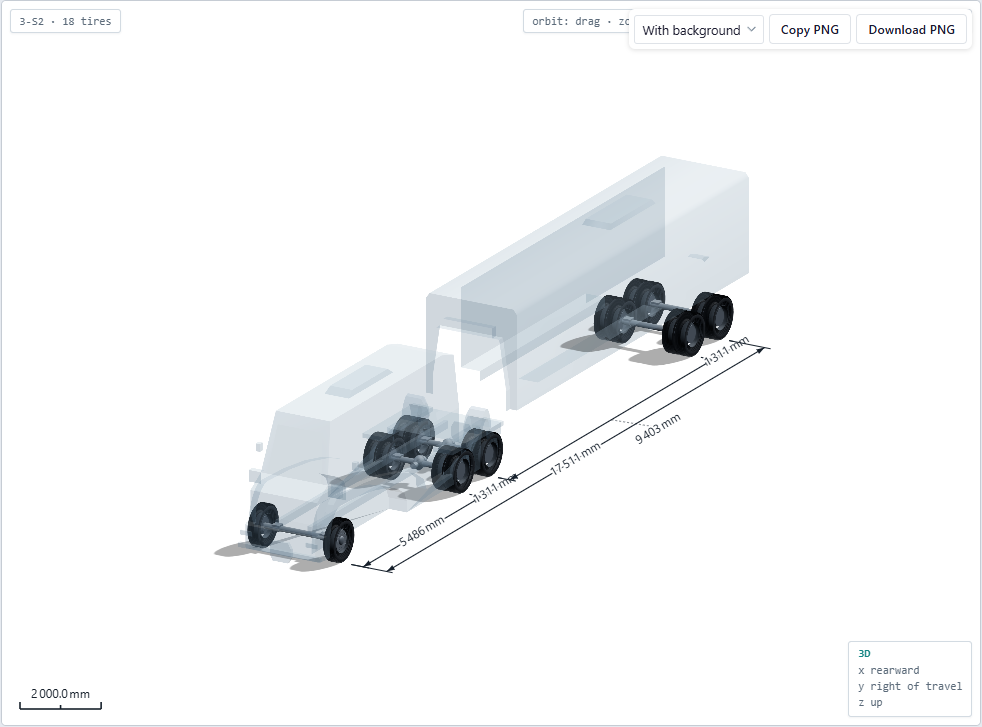
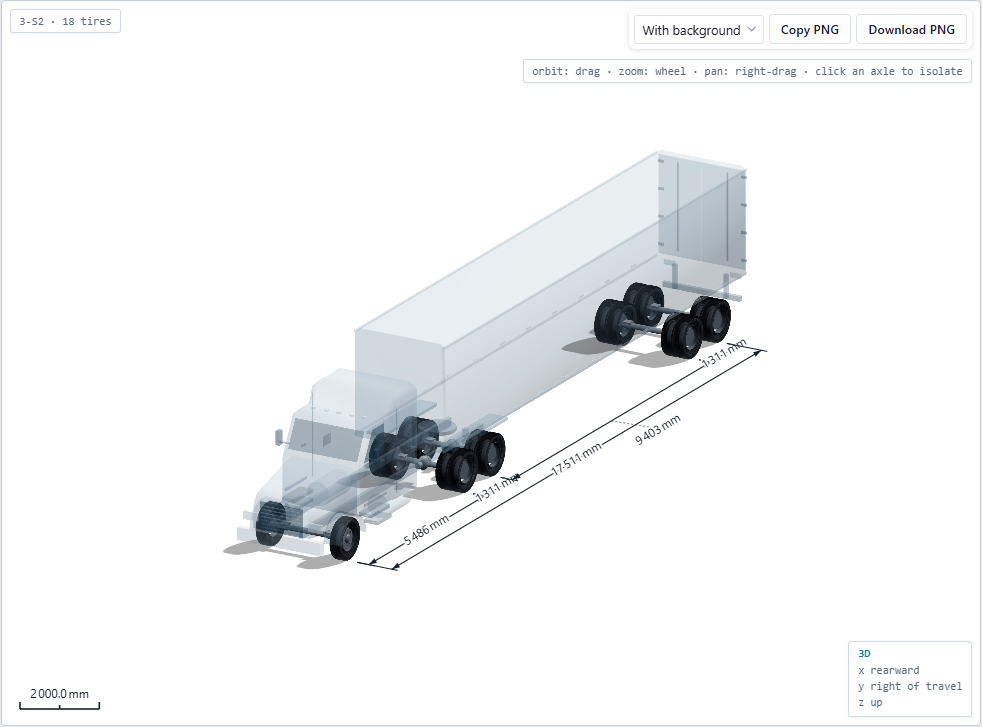
Rebuild articulated trucks with conventional tractor proportions and detailed trailers

diff --git a/src/components/react/gear3d/engine/geometry/vehicleBody.js b/src/components/react/gear3d/engine/geometry/vehicleBody.js
@@ -1,6 +1,7 @@
 import * as THREE from 'three';
 import { GLTFLoader } from 'three/addons/loaders/GLTFLoader.js';
 import { profileFor } from './chassis.js';
+import { buildConventionalTruck } from './conventionalTruck.js';
 
 const templates = new Map();
 const requests = new Map();
@@ -20,14 +21,16 @@ export function vehicleBodySpec(unit) {
     if (unit.domain !== 'truck') return null;
     const profile = profileFor(unit.bodyType).key;
     const articulated = /tractor|trailer/.test(unit.bodyType || '');
+    if(articulated) return {id:'conventional',label:'Conventional long-hood tractor and van trailers',articulated:true};
     const id = { car: 'sedan', pickup: 'truck', bus: 'bus', motorcycle: 'motorcycle' }[profile]
-        || (articulated || /dump/.test(unit.bodyType || '') ? 'delivery-flat' : 'delivery');
-    return { id, label: articulated ? 'Cab and articulated trailer bodies' : `${profile} reference body`, articulated, secondary: articulated ? 'trailer' : null };
+        || (/dump/.test(unit.bodyType || '') ? 'delivery-flat' : 'delivery');
+    return { id, label: `${profile} reference body` };
 }
 
 export function vehicleBodyStatus(unit) {
     const spec = vehicleBodySpec(unit);
     if (!spec) return 'unavailable';
+    if (spec.articulated) return 'ready';
     const ids=[spec.id,spec.secondary].filter(Boolean);
     return ids.every(id=>templates.has(id)) ? 'ready' : ids.some(id=>failures.has(id)) ? 'failed' : 'loading';
 }
@@ -35,7 +38,7 @@ export function vehicleBodyStatus(unit) {
 /** Load only selected visible bodies; repeated requests share promises. */
 export function ensureVehicleBody(unit, base) {
     const spec = vehicleBodySpec(unit);
-    if (!spec) return Promise.resolve();
+    if (!spec || spec.articulated) return Promise.resolve();
     return Promise.all([spec.id,spec.secondary].filter(Boolean).map(id=>{
         if(templates.has(id)||failures.has(id))return Promise.resolve();
         if(requests.has(id))return requests.get(id);
@@ -68,13 +71,13 @@ export function disposeVehicleBodies() {
 export function buildVehicleBody(layout) {
     const spec = vehicleBodySpec(layout.unit);
     const template = spec && templates.get(spec.id);
-    if (!template || vehicleBodyStatus(layout.unit) !== 'ready' || !layout.wheels.length) return null;
-    const meta = template.userData;
+    if (!spec || (!template && !spec.articulated) || vehicleBodyStatus(layout.unit) !== 'ready' || !layout.wheels.length) return null;
+    const meta = template?.userData;
     const group = new THREE.Group(); group.name = 'vehicle-body';
     group.userData = { illustrative: true, label: spec.label };
     const palette = new Map();
     function surfaceMaterial(surface = 'body') {
-        const key = spec.id === 'bus' ? surface : 'body';
+        const key = spec.id === 'bus' || spec.articulated ? surface : 'body';
         if (!palette.has(key)) {
             const style = {
                 windows: {color:0x294859,opacity:.43,roughness:.3},
@@ -89,10 +92,11 @@ export function buildVehicleBody(layout) {
         }
         return palette.get(key);
     }
+    if(spec.articulated) return buildConventionalTruck(layout,surfaceMaterial);
     const material = surfaceMaterial(spec.id === 'bus' ? 'bottom' : 'body');
     const xs = layout.axles.map(a=>a.x);
     let front = Math.min(...xs), rear = Math.max(...xs);
-    let sx, sy, sz, lift, tractor, busFit, fuselageBelly;
+    let sx, sy, sz, lift, busFit, fuselageBelly;
     if (spec.aircraft) {
         const nose=layout.axles.find(a=>a.role==='nose');
         const mains=layout.axles.filter(a=>a.role==='main');
@@ -114,27 +118,10 @@ export function buildVehicleBody(layout) {
         const gearTop=Math.max(...mains.map(a=>a.axleHeight+a.geometry.overallDiameter*1.35));
         lift=Math.max(gearTop-belly*sy, -meta.minY*sy + 150);
     } else {
-        const drive=layout.axles.filter(a=>a.role==='drive');
-        if(spec.articulated && drive.length) rear=Math.max(...drive.map(a=>a.x));
         const width=layout.extents.maxY-layout.extents.minY;
         sx=width/meta.width; sy=sx * (spec.id.startsWith('delivery') ? 1.35 : 1);
         sz=(rear-front)/(meta.rearAxle-meta.frontAxle);
         if(spec.id==='motorcycle') sx=sy=sz;
-        if (spec.articulated && drive.length) {
-            const radius=Math.max(...drive.map(a=>a.geometry.freeRadius));
-            let cabSourceEnd=meta.frontAxle;
-            template.traverse(o=>{
-                const p=o.geometry?.attributes.position;
-                if(p)for(let i=0;i<p.count;i++)
-                    if(p.getY(i)>meta.axleY+(meta.maxY-meta.axleY)*.4)
-                        cabSourceEnd=Math.max(cabSourceEnd,p.getZ(i));
-            });
-            tractor={front, firstDrive:Math.min(...drive.map(a=>a.x)), rear,
-                cabSourceEnd, rearEnd:rear+radius+180};
-            tractor.cabEnd=Math.min(tractor.firstDrive+radius*.6,rear-radius*.45);
-            sy=(3500-layout.axles[0].axleHeight)/(meta.maxY-meta.axleY);
-            group.userData.tractor=tractor;
-        }
         if(spec.id==='bus') {
             sy=(3200-layout.axles[0].axleHeight)/(meta.maxY-meta.axleY);
             const total=Math.max(layout.unit.overallLength || 0,rear-front+2000);
@@ -168,8 +155,7 @@ export function buildVehicleBody(layout) {
         }
         for(let i=0;i<p.count;i++) {
             const z=p.getZ(i);
-            const longitudinal = tractor ? tractorLongitudinal(z,meta,tractor,sx)
-                : spec.aircraft ? z*sz+offset
+            const longitudinal = spec.aircraft ? z*sz+offset
                 : z<meta.frontAxle ? front+(z-meta.frontAxle)*(busFit?.frontScale ?? sx)
                 : z>meta.rearAxle ? rear+(z-meta.rearAxle)*(busFit?.rearScale ?? sx)
                 : front+(z-meta.frontAxle)*sz;
@@ -182,12 +168,11 @@ export function buildVehicleBody(layout) {
         }
         geo.computeBoundingBox(); geo.computeBoundingSphere();
         const mesh=new THREE.Mesh(geo,surfaceMaterial(o.userData.surface));
-        mesh.name=tractor?'vehicle-body:tractor':`vehicle-body:${o.userData.surface || 'surface'}`;
+        mesh.name=`vehicle-body:${o.userData.surface || 'surface'}`;
         mesh.userData.pickable=false;mesh.raycast=()=>{};
         group.add(mesh);
     });
     if(busFit) addBusDetails(group,busFit,surfaceMaterial);
-    if(tractor) addTractorDetails(group,layout,tractor,material);
     if(!spec.aircraft && spec.id !== 'bus' && spec.id !== 'motorcycle') {
         const bounds=new THREE.Box3().setFromObject(group);
         const half=(layout.extents.maxY-layout.extents.minY)/2;
@@ -208,46 +193,9 @@ export function buildVehicleBody(layout) {
             for(const z of [start,end])detailBox(group,'dump-end',material,0,(floor+top)/2,z,half*1.9,top-floor,90);
         }
     }
-    if(spec.articulated) {
-        // Each separated trailer axle cluster carries its own cargo body.
-        const trailer=layout.axles.filter(a=>a.role==='trailer').sort((a,b)=>a.x-b.x);
-        let clusters=[];
-        for(const a of trailer) {
-            if(!clusters.length || a.x-clusters.at(-1).at(-1).x>3000) clusters.push([]);
-            clusters.at(-1).push(a);
-        }
-        if (clusters.length > 2 && /full trailer|double/.test(layout.unit.bodyType || ''))
-            clusters = [clusters[0], clusters.slice(1).flat()];
-        let start=Math.max(rear+700,(tractor?.rearEnd || rear)+250);
-        const width=layout.extents.maxY-layout.extents.minY;
-        for(const [i,cluster] of clusters.entries()) {
-            const end=Math.max(...cluster.map(a=>a.x))+1200;
-            if(end<=start)continue;
-            const cargo=templates.get('trailer'), cm=cargo.userData;
-            cargo.traverse(o=>{
-                if(!o.isMesh)return;
-                const geo=o.geometry.clone();
-                geo.translate(0,-cm.minY,0);
-                geo.scale(width/cm.width,2600/(cm.maxY-cm.minY),(end-start)/cm.length);
-                geo.translate(0,1250,start);
-                const mesh=new THREE.Mesh(geo,material);mesh.name=`vehicle-body:trailer-${i+1}`;
-                mesh.userData.pickable=false;mesh.raycast=()=>{};group.add(mesh);
-            });
-            start=end+700;
-        }
-    }
     return group;
 }
 
-
-/** Preserve the nose, enlarge the cab up to the drive group, then fit the rear
- * deck to the actual last tractor axle. Trailer axles never set tractor size. */
-function tractorLongitudinal(z,meta,fit,widthScale) {
-    if(z<meta.frontAxle)return fit.front+(z-meta.frontAxle)*widthScale;
-    if(z<fit.cabSourceEnd)return THREE.MathUtils.mapLinear(z,meta.frontAxle,fit.cabSourceEnd,fit.front,fit.cabEnd);
-    if(z<meta.rearAxle)return THREE.MathUtils.mapLinear(z,fit.cabSourceEnd,meta.rearAxle,fit.cabEnd,fit.rear);
-    return THREE.MathUtils.mapLinear(z,meta.rearAxle,meta.length,fit.rear,fit.rearEnd);
-}
 
 function detailBox(group,name,material,x,y,z,width,height,length) {
     const geometry=new THREE.BoxGeometry(width,height,length);
@@ -255,20 +203,6 @@ function detailBox(group,name,material,x,y,z,width,height,length) {
     const mesh=new THREE.Mesh(geometry,material);mesh.name=`vehicle-body:${name}`;
     mesh.userData.pickable=false;mesh.raycast=()=>{};group.add(mesh);
     return mesh;
-}
-
-function addTractorDetails(group,layout,fit,material) {
-    const drive=layout.axles.filter(a=>a.role==='drive');
-    const radius=Math.max(...drive.map(a=>a.geometry.freeRadius));
-    const axleHeight=Math.max(...drive.map(a=>a.axleHeight));
-    const length=fit.rearEnd-fit.front+350;
-    for(const side of [-1,1]) {
-        detailBox(group,'tractor-frame',material,side*430,axleHeight+240,
-            (fit.front-350+fit.rearEnd)/2,100,190,length);
-        const fenderLength=fit.rear-fit.firstDrive+radius*2;
-        detailBox(group,'drive-fender',material,side*(layout.derived.overallWidth/2-270),
-            axleHeight+radius+90,(fit.firstDrive+fit.rear)/2,520,110,fenderLength);
-    }
 }
 
 /** Transit-bus detail follows the calibrated body envelope, in millimeters.

diff --git a/src/components/react/gear3d/engine/geometry/conventionalTruck.js b/src/components/react/gear3d/engine/geometry/conventionalTruck.js
@@ -1,0 +1,112 @@
+import * as THREE from 'three';
+
+// Representative conventional tractor, proportioned from the Cascadia 126
+// manufacturer side elevations (1315 mm nose overhang, 3220 mm day cab BBC).
+// This is an authored illustration, not a Freightliner CAD model.
+export function buildConventionalTruck(layout, material) {
+    const root=new THREE.Group();root.name='vehicle-body';
+    root.userData={illustrative:true,label:'Conventional long-hood tractor and van trailers'};
+    const steer=layout.axles.find(a=>a.role==='steer') || layout.axles[0];
+    const drive=layout.axles.filter(a=>a.role==='drive');
+    if(!drive.length)return root;
+    const front=steer.x, firstDrive=Math.min(...drive.map(a=>a.x)),rear=Math.max(...drive.map(a=>a.x));
+    const scale=THREE.MathUtils.clamp((firstDrive-front-650)/4000,.7,1);
+    const width=Math.min(2590,layout.extents.maxY-layout.extents.minY);
+    const wx=width/2500;
+    const z=v=>front+v*scale;
+    const cabEnd=Math.min(z(3205),firstDrive-700*scale);
+    root.userData.tractor={front,firstDrive,rear,rearEnd:rear+700,cabEnd,nose:z(-1315),hoodEnd:z(650),scale};
+    const mesh=(name,geo,kind='body')=>{
+        geo.computeVertexNormals();geo.computeBoundingBox();geo.computeBoundingSphere();
+        const m=new THREE.Mesh(geo,material(kind));m.name=`vehicle-body:${name}`;
+        m.userData.pickable=false;m.raycast=()=>{};root.add(m);return m;
+    };
+    const box=(name,x,y,zz,w,h,l,kind='details')=>mesh(name,new THREE.BoxGeometry(w,h,l).translate(x,y,zz),kind);
+    // Chamfered transverse sections produce a shaped hood/roof without stretching
+    // glazing. Each station defines z, half-width, floor, roof and corner radius.
+    const loft=(name,sections,kind='body')=>{
+        const vertices=[],indices=[];
+        for(const [zz,w,b,t,c] of sections)vertices.push(-w,b,zz,w,b,zz,w,t-c,zz,w-c,t,zz,-w+c,t,zz,-w,t-c,zz);
+        for(let j=0;j<sections.length-1;j++)for(let k=0;k<6;k++){
+            const a=j*6+k,b=j*6+(k+1)%6,c=b+6,d=a+6;indices.push(a,b,d,b,c,d);
+        }
+        for(let k=1;k<5;k++){indices.push(0,k+1,k);const n=(sections.length-1)*6;indices.push(n,n+k,n+k+1);}
+        const g=new THREE.BufferGeometry();g.setAttribute('position',new THREE.Float32BufferAttribute(vertices,3));g.setIndex(indices);
+        return mesh(name,g,kind);
+    };
+    const panel=(name,points,kind='windows')=>{
+        const g=new THREE.BufferGeometry();g.setAttribute('position',new THREE.Float32BufferAttribute(points.flat(),3));
+        g.setIndex([0,1,2,0,2,3]);return mesh(name,g,kind);
+    };
+    loft('hood',[
+        [z(-1250),790*wx,850,1580,130],[z(-850),930*wx,850,1730,160],
+        [z(650),1000*wx,930,2060,170]
+    ]);
+    loft('tractor',[
+        [z(650),1100*wx,850,2060,80],[z(1150),1100*wx,850,3030,110],
+        [z(1905),1100*wx,850,3030,110],
+        [z(2190),1175*wx,850,3455,180],[cabEnd,1175*wx,850,3455,180]
+    ]);
+    // Windshield lies on the sloped cab face; side windows stop at the B pillar.
+    panel('windshield',[[-970*wx,2200,z(705)-8],[970*wx,2200,z(705)-8],[970*wx,2870,z(1050)-8],[-970*wx,2870,z(1050)-8]].reverse());
+    for(const side of [-1,1]) {
+        const x=side*1108*wx;
+        const points=[[x,2160,z(780)],[x,2890,z(1190)],[x,2890,z(1760)],[x,2160,z(1760)]];
+        if(side<0)points.reverse();panel('door-glass',points);
+        box('door-handle',side*1115*wx,1960,z(1660),30,45,180*scale,'bumper');
+        box('door-sill',side*1115*wx,1100,z(1320),35,65,1020*scale);
+        box('mirror-arm',side*1220*wx,2240,z(940),300*wx,35,40);
+        box('mirror',side*1370*wx,2340,z(940),110,360,150,'windows');
+        box('step-upper',side*1080*wx,820,z(1330),350,90,850*scale,'bumper');
+        box('step-lower',side*1110*wx,580,z(1450),380,90,650*scale,'bumper');
+        const tank=new THREE.CylinderGeometry(310,310,1050*scale,12);tank.rotateX(Math.PI/2);tank.translate(side*850*wx,690,z(2450));mesh('fuel-tank',tank,'top');
+        box('sleeper-seam',side*1182*wx,2040,z(2230),18,2120,18);
+        box('sleeper-vent',side*1185*wx,1700,cabEnd-300*scale,20,250,360*scale,'bumper');
+        // Curved wheel arches follow the real steer tire, rather than covering it.
+        const r=steer.geometry.freeRadius+95,inner=r-75,positions=[],indices=[];
+        for(let i=0;i<=16;i++){
+            const a=Math.PI*i/16;
+            for(const xx of [side*(steer.trackWidth/2-230),side*(steer.trackWidth/2+230)])
+                for(const rr of [inner,r])positions.push(xx,steer.axleHeight+Math.sin(a)*rr,front+Math.cos(a)*rr);
+        }
+        for(let i=0;i<16;i++)for(const [a,b] of [[0,1],[1,3],[3,2],[2,0]]){const n=i*4;indices.push(n+a,n+b,n+a+4,n+b,n+b+4,n+a+4);}
+        const g=new THREE.BufferGeometry();g.setAttribute('position',new THREE.Float32BufferAttribute(positions,3));g.setIndex(indices);mesh('steer-fender',g);
+        box('frame-rail',side*440,850,(z(-1100)+rear+700)/2,100,220,rear+700-z(-1100));
+        box('drive-fender',side*(width/2-250),1250,(firstDrive+rear)/2,490,80,rear-firstDrive+1200);
+        box('headlight',side*910*wx,1110,z(-1180),400*wx,210,65,'lights');
+    }
+    box('front-bumper',0,680,z(-1315),width*.94,320,160,'top');
+    box('grille',0,1200,z(-1260),1200*wx,720,35,'windows');
+    for(let i=0;i<7;i++)box('grille-slat',0,920+i*90,z(-1283),1130*wx,22,20,'top');
+    for(let i=-2;i<=2;i++)box('cab-marker',i*360*wx,3040,z(1480),95,45,80,'lights');
+    const coupling=(firstDrive+rear)/2;
+    const plate=new THREE.CylinderGeometry(470,470,90,16);plate.translate(0,1190,coupling);mesh('fifth-wheel',plate,'bumper');
+
+    const trailer=layout.axles.filter(a=>a.role==='trailer').sort((a,b)=>a.x-b.x);
+    let clusters=[];
+    for(const a of trailer){if(!clusters.length||a.x-clusters.at(-1).at(-1).x>3000)clusters.push([]);clusters.at(-1).push(a);}
+    if(clusters.length>2&&/full trailer|double/.test(layout.unit.bodyType || ''))clusters=[clusters[0],clusters.slice(1).flat()];
+    let start=Math.max(cabEnd+450,coupling-1800);
+    root.userData.trailers=[];
+    for(const [i,cluster] of clusters.entries()) {
+        const end=Math.max(...cluster.map(a=>a.x))+1200,half=width/2;
+        if(end<=start)continue;
+        const floor=1320,roof=4050;
+        root.userData.trailers.push({start,end,floor,roof,axles:cluster.map(a=>a.id)});
+        loft(`trailer-${i+1}`,[[start,half,floor,roof,100],[start+120,half,floor,roof,100],[end,half,floor,roof,100]]);
+        for(const side of [-1,1]) {
+            for(const yy of [floor+50,roof-70])box('trailer-rail',side*(half+8),yy,(start+end)/2,32,65,end-start,'top');
+            for(let zz=start+800;zz<end-300;zz+=1250)box('trailer-marker',side*(half+26),floor+120,zz,20,45,210,'lights');
+            box('landing-leg',side*780,920,start+1800,110,800,110);
+            box('landing-foot',side*780,520,start+1800,300,65,270);
+            box('rear-door',side*width*.245,2680,end+20,width*.48,2500,35,'top');
+            box('door-lock',side*width*.28,2670,end+48,35,2240,30,'bumper');
+            for(let yy=1650;yy<3900;yy+=700)box('door-hinge',side*(half-80),yy,end+50,140,65,40,'bumper');
+            box('tail-lamp',side*half*.75,1220,end+65,300,130,50,'lights');
+            box('underride-post',side*700,950,end-50,90,620,90);
+        }
+        box('underride-bar',0,670,end+30,width*.87,130,100,'bumper');
+        start=end+850;
+    }
+    return root;
+}

diff --git a/docs/gear3d-body-review/README.md b/docs/gear3d-body-review/README.md
@@ -9,7 +9,7 @@ have no invented airframe. Engineering geometry and footprint exports exclude th
 body; rendered figures include it when enabled.
 
 The first procedural prototype was replaced after the request for stronger
-fidelity. The shipped bodies use the actual licensed source mesh triangles,
+fidelity. Aircraft and smaller road bodies use the actual licensed source mesh triangles,
 prepared locally into small GLB assets. This preserves recognizable fuselages,
 wings, engines, tails, cabs, pickup beds and motorcycle bodywork.
 
@@ -33,9 +33,7 @@ The asset source URLs and SHA-256 hashes are recorded in
 
 ### Coverage and accuracy
 
-* All shipped road classes receive a body. Heavy combinations use cargo shells
-  cropped from the source delivery truck; doubles receive two bodies, with the
-  dolly in the second trailer group. Cargo proportions remain illustrative.
+* All shipped road classes receive a body. Articulated Classes 8–13 now use an authored conventional tractor and clean van trailers; doubles receive two bodies, with the dolly in the second trailer group. These replace the stretched delivery cab and cropped cargo shell. Cargo proportions remain illustrative.
 * The 737, 747 and A380 use their corresponding airframe families. The 757 uses
   the 737 reference shape; the 767 and 777 use the 787 reference shape. The
   interface names the actual reference airframe. These are representative
@@ -137,3 +135,16 @@ The viewport offers Copy PNG and Download PNG, with solid-background and transpa
 [Refined bus](app-bus-refined.png) · [Open dump bed](app-dump-refined.png) · [Enlarged tractor](app-tractor-refined.png)
 
 Validation: 37 geometry/unit/style checks pass, Chrome smoke checks pass, opaque and transparent PNG downloads and clipboard copies pass, and the production build generates all 33 pages. Transparent pixels were verified from decoded PNG data; the figure annotations and Quad pane borders remain visible.
+
+
+## Conventional tractor revision
+
+The articulated bodies were rebuilt after the elongated cab and cropped trailer looked distorted. The new tractor has independent hood, cab and sleeper sections, a sloping windshield, curved steer fenders, grille slats, lamps, mirrors, steps, cylindrical tanks and a fifth wheel. The cab stops ahead of the drive group; chassis rails continue over it. A longer wheelbase no longer stretches the windshield. Trailer noses overlap the fifth wheel with sleeper clearance. Trailer shells have straight, uninterrupted walls, chamfered roof edges, rails, markers, landing legs, rear doors, locks, hinges and underride guards.
+
+Reference: [Freightliner Cascadia 126 specification sheet, June 2024, page 2](https://www.freightliner.com.au/siteassets/documents/cascadia-spec-sheet-126-2024.pdf). Published day-cab BBC is 3,220 mm; the 60-inch XT sleeper BBC is 4,520 mm and cab height 3,455 mm. The drawing labels a 1,315 mm front overhang. These anchor the proportions; hood contours, glazing and accessories are interpreted locally. Shorter library wheelbases compress the longitudinal profile modestly, independently of the trailer. This is a representative conventional truck, not licensed manufacturer CAD or a pixel-identical copy. The earlier pixel comparisons apply only to the retained prepared GLB assets, not this authored replacement.
+
+Coverage: all eight articulated library entries in Classes 8–13. There is no Class 14 entry in this library. The geometry tests check hood length, cab position, frame coverage, trailer overlap, finite geometry and triangle budget for every entry.
+
+[Conventional tractor close-up](tractor-conventional-closeup.png) · [Side profile](tractor-conventional-side.png)
+
+Revision validation: 38 tests, Chrome body/default/project checks, and all articulated entries rendered in 3D. Trailer axle edits leave hood, cab, glazing, frame and fifth-wheel geometry unchanged.

diff --git a/public/gear3d/bodies/CREDITS.md b/public/gear3d/bodies/CREDITS.md
@@ -46,3 +46,8 @@ endorsement by any original creator.
 See `docs/gear3d-body-review/README.md` for the render comparisons and limitations.
 
 Runtime refinements include bus glazing/trim, doors, mirrors, lamps, roof equipment, enlarged tractor cabs, chassis details, open dump beds and subtle aircraft intake shading. These additions are illustrative and do not alter engineering exports.
+
+
+## Authored conventional tractor and trailers
+
+Classes 8–13 now use local procedural meshes rather than the stretched delivery-flat cab and cropped trailer GLB. Proportions reference the [Cascadia 126 specification sheet (June 2024), page 2](https://www.freightliner.com.au/siteassets/documents/cascadia-spec-sheet-126-2024.pdf): 3,220 mm day-cab BBC, 4,520 mm 60-inch XT sleeper BBC, 3,455 mm XT cab height and 1,315 mm front overhang. The hood, cab, glazing, fenders and trailer details are original simplified interpretations. No Freightliner mesh, logo or texture is distributed. These are illustrative conventional trucks, not exact Freightliner replicas. Existing GLB credits and comparisons remain applicable to the retained assets only.
